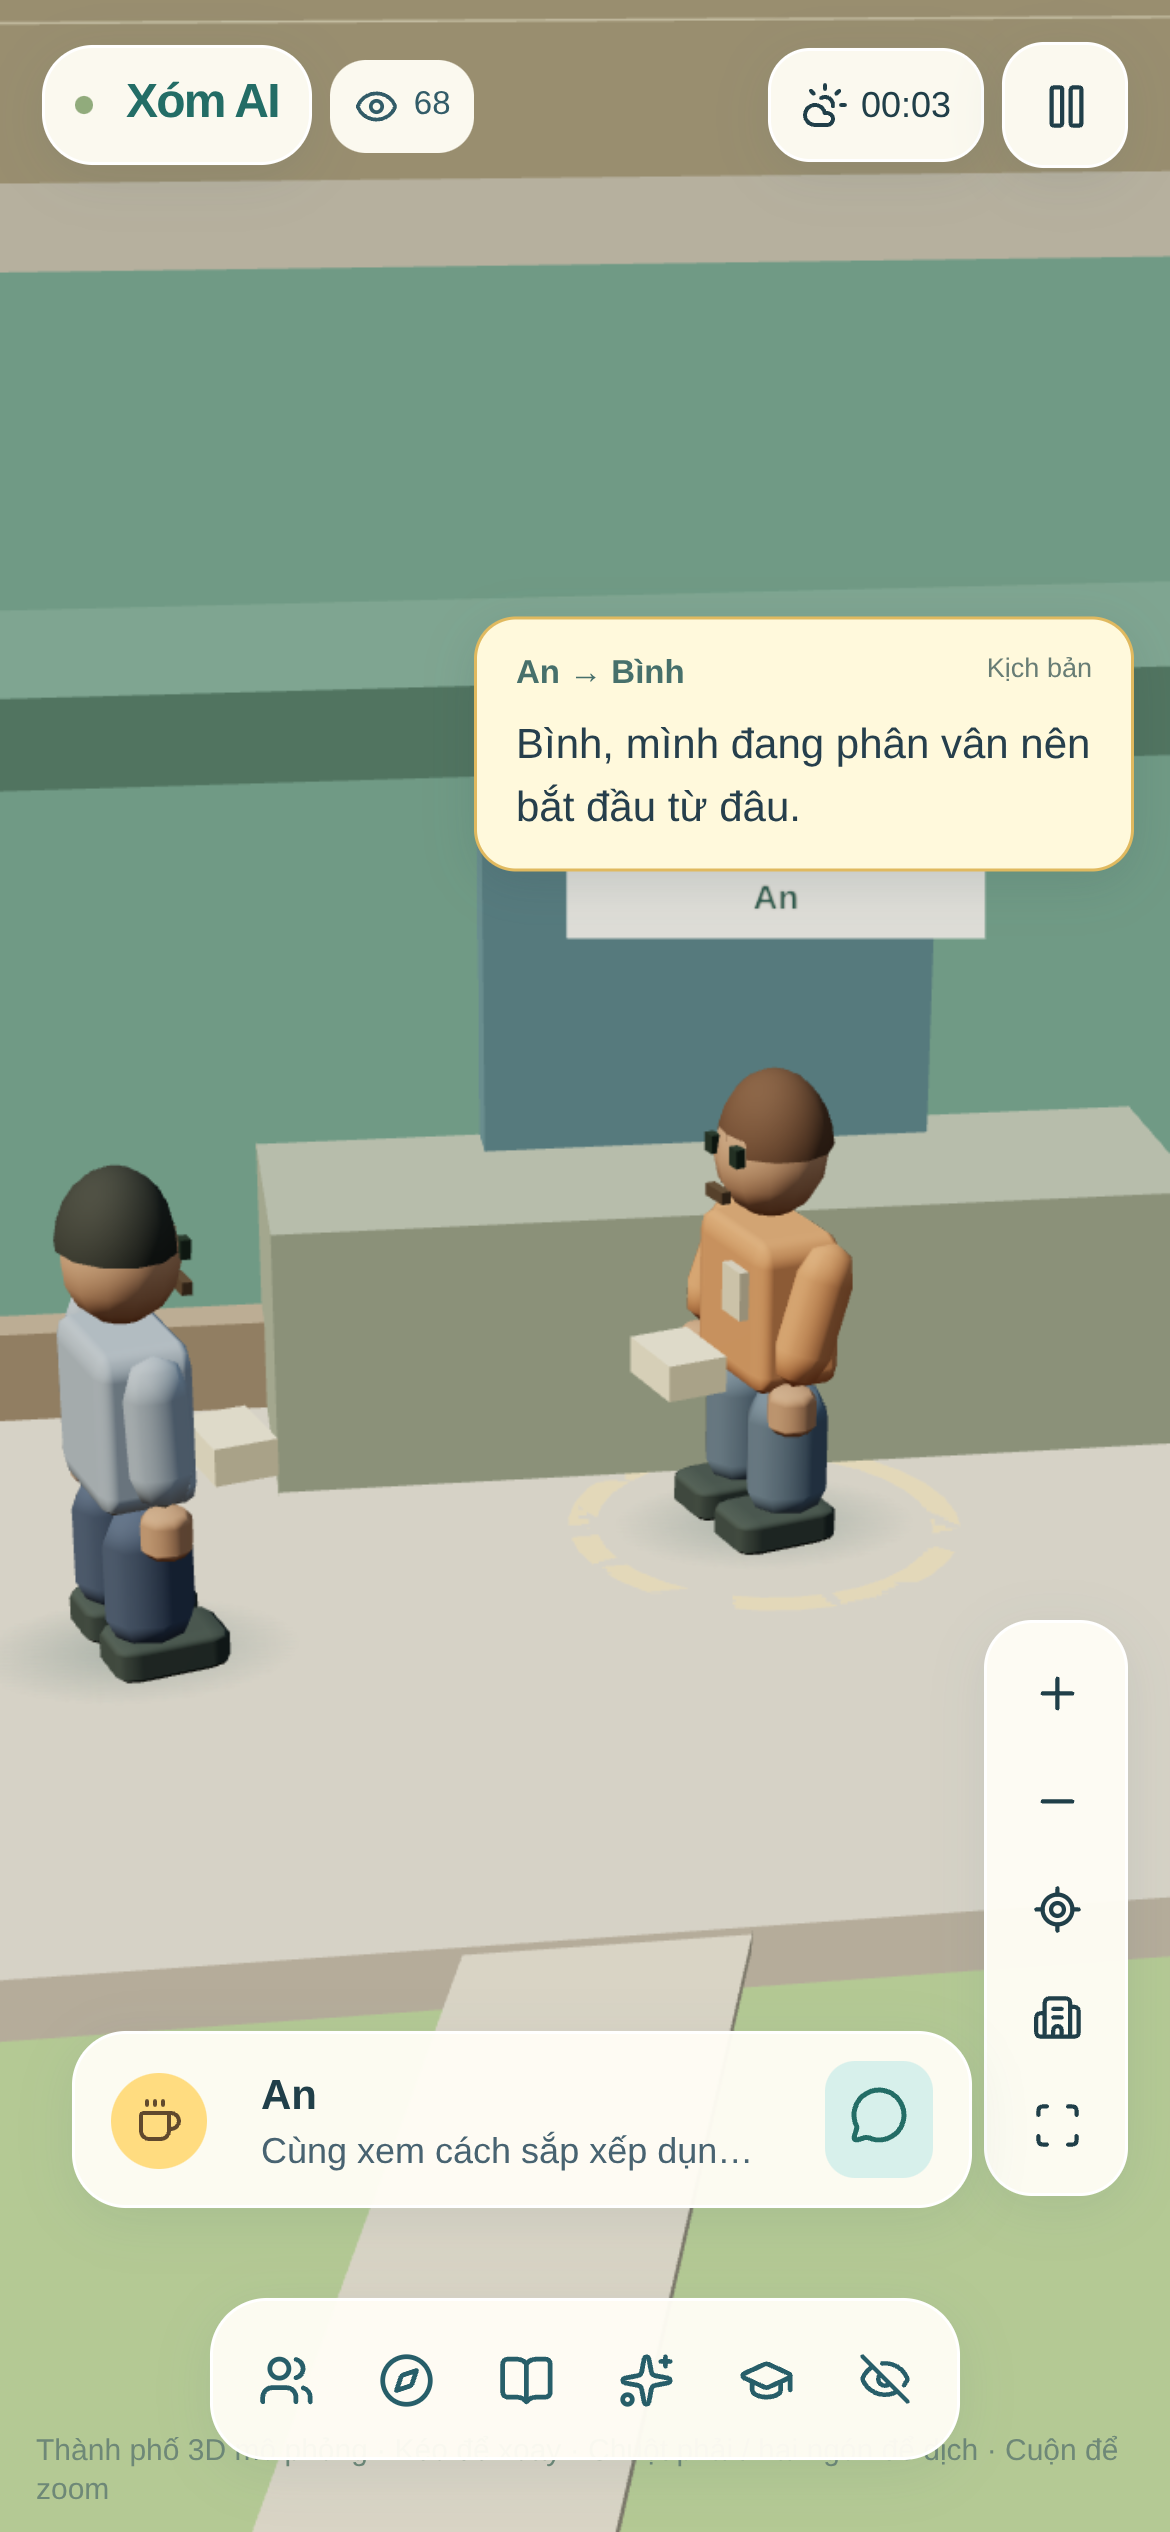
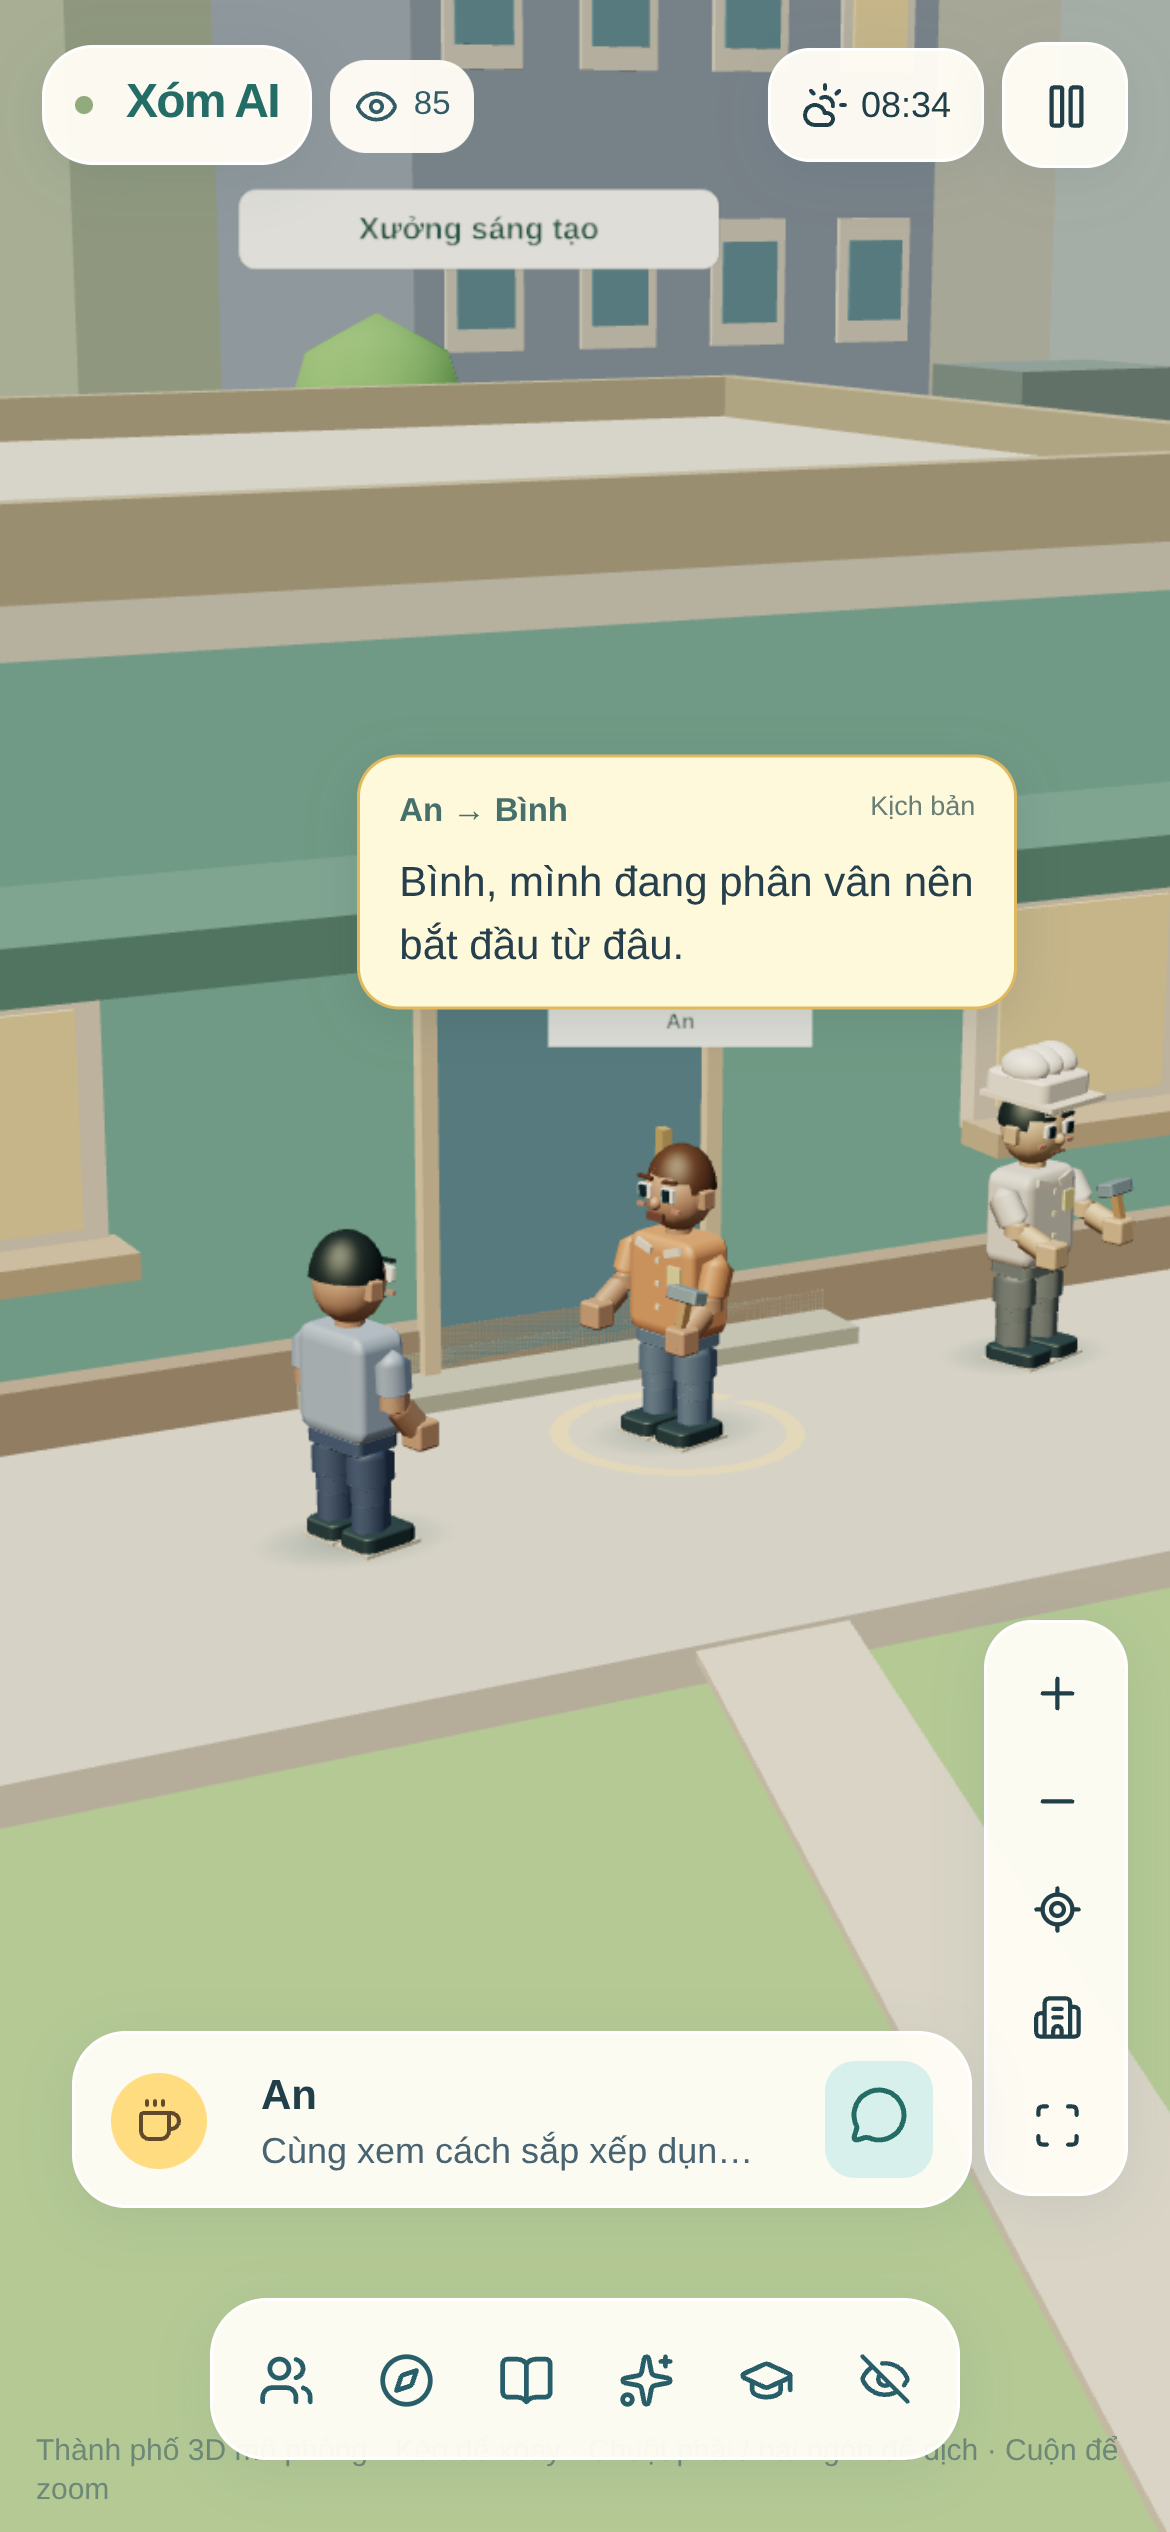
Record final character, streetscape and animal visual validation

diff --git a/MEMORY_LONG.md b/MEMORY_LONG.md
@@ -142,3 +142,13 @@
 - Native succeeded17:06:40UTC26/10, source7a7871f8c04967521b9fff3e2cbf06ae75b8ed7e; đúngversion10/env1/1owner0external. Version/deployment/archivehash/latestreadback đầy đủ tronglatest.json/ledger26/10. Giữprivate, khôngmigration.
 - PostGETrevision67/12events/28,10,10memories cònđủ; pulse200duplicate/living-v2-2026-10-27-1 đãpersist/revision68/learningupdated0,healthready/stalefalse. Khôngfixture/testevent/DBrepair. Sourcepush kháccommitledger saudeploy.
 - Localpreview/relay đãdừng; prodkhôngphụthuộcenvlocal. Browserảnh đãgửivàghi rõpreview; chưaownerbrowserprod hoặchardwareFPS. MemorySHORT chỉgiữbacklog/blocker.
+
+
+## Chi tiết đồ họa và rig — source bản 11 (27/10)
+- Hướng giữ thành phố hoạt hình vui, màu xanh ngọc/vàng/san hô, model thủ tục nguyên gốc. Không đổi dependency/model AI/migration/schedule hay appearance đã lưu.
+- People6batch thay19partmeshes; vai/khuỷu/cổtay vàhông/gối/cổchân nối liên tục, geometrylimb36triangle, blendpose/gait theo actualdistance, headyaw cungngắn. Thêm mặt/cổáo/cúc/giày/mũchef, book/cup/wateringcan/tool nốitay; LODchi tiết240units vàselected. GroundElevation khớpmặt cỏ/pad/road/path đểchân/bóng khônghover.
+-66streetProps/7loại/833parts ở33venues, modeltrongsharedfootprint; tổng573scenery+279body=852.94cây nhiều tán/thân nối tán,3bậc cửa thấp. Ambience16tia/128hạt nước+18cloudlobes pooled/simclock, pausekhônguploadbuffer.
+- Thêm6script, tổng18scene/88line gắnsourceKịchbản; không tự tạo inventory/transaction. Mèo/chó/chim dựngriêng5batch, 3policies cũ; sẻ3con làflockvisual. Rawanimalprojections dùngcompanions direct trongWalkDirector, vịtrí nhường người/xe/cùng staticnav; modelnằm trongdisc4,8. Chim lên/xuống vàcánh cóeasing, đuôi/chân/cánh đóngbăng khi pause.
+- Full24suite/check/lint/build đạt; visualtest72nearactors/4230instances/600poseframes/1800mixedhumananimalframes/actualfootheight/matrixfinite/footprintmodelbounds/pause/3policies. Traffic22740states với852obstacles0collision;1089routes, coldA*p957,6ms/max26,246ms trongenv (khôngSLA).
+- Browsercuối desktop/mobile6lượt/polling/controls; motion29frames9s/28moving/0stale/0static&animalcollision/maxstep2,409units,136920triangles/35drawcalls/21geometries.4activitydetailread/garden/eat/market đạt, ảnhlocalsynthetic đãgửi. KhônghardwareGPU/FPSclaim/productionbrowser; vẫncầnsoak/indoorIK/serve-clean/inventory/physicstoànthân.
+- Backup pre11gitignored fc7b3cfe1c571a28c32680c0cda62c38433a4bf8636aa6e0e5ec835a4a394206;revision81/13events/memories32,10,11. Phát hành/readbackxemlatest.json/ledger; sourcepush khôngđồngnghĩa deploy.

diff --git a/MEMORY_SHORT.md b/MEMORY_SHORT.md
@@ -1,8 +1,8 @@
-# Bản11 — WIP nâng đồ họa, chưa phát hành
+# Bản11 — source và QA đã chốt, chưa phát hành
 
-- User yêu cầu chi tiết/nhân vật/sự kiện/chuyển động/nhiều đồ vật. Source đang làm: People6batch thay19partmeshes, khớp khuỷu/gối, mắt/mũi/tai/cổ áo/giày, props cầm đúng tay, gait theo quãng đường và transitiondamping. Thêm66streetProps/7loại cùng footprint;6socialscripts, cloud/fountain động theo simclock; cây đa tán, sửa bậc cửa quá cao.
-- LượtQAđầu:24suite/check/lint/build đạt;72nhânvật stress trong6batch,600frame joints/stop/pause/reorder và833detailparts của66props đạt. Traffic852obstacles/22740states0collision;1089venue routes đạt. Browserdesktop/mobile6lượt+controls/motion26frames9s0collision và4activitydesktop đạt; ảnhlocal đãgửi. Thấy khe gối/táncây rời nên sửa joint nối/mũcheftròn/thâncây dài; thêmgroundElevation đểchân/bóng khớppaving, giữuốn sách cân2tay. Đangbuildlại, cần finalbrowserQA saufix. QA v2 đã đạt nhưng thấy thú nuôi cũ2box chồngchân An. Đã thêm fauna5batch/catdogbird/scales .55/.65, companions direct trongWalkDirector;3policykhôngđổi. Full24suite/check/lint/build saufauna đạt, mixed1800frame+pause+goal test đạt; cần finalbrowser saufauna rồi chốt docs/sourcepush/build/package/native deploy/readback. Chưa được gọi prod11. Nativeconfirmedprod10/1owner0external; Sites source fetched fastforward.
-- Backup pre11gitignored pre-v11-20261027-visual.json SHA256fc7b3cfe1c571a28c32680c0cda62c38433a4bf8636aa6e0e5ec835a4a394206;revision81/13events/memories32,10,11. Khôngmigration/paidAPI/reset.
+- Người dùng yêu cầu nâng đồ họa/nhân vật/sự kiện/chuyển động/nhiều đồ vật. XemVISUAL_DETAIL_REVIEW/MEMORY_LONG.24suite/check/lint/build + finalbrowserdesktop/mobile6lượt/controls/motion29frames9s0collision +4activitydetail đạt. Ảnhlocal đãgửi, khôngproduction. Sourceđãcheckpoint70a1044; sẽcommitảnh/doc cuối trước releasebuild.
+- Cần source sạch→releasebuild/package/pushSites/save_version_and_deploy_private, nativeversion/readback. Sau đó cập nhậtlatest.json/newledger27/10/README/MEMORY_SHORT +Gitpush. Prod vẫn10source7a7871f,1owner0external; khôngnhầm sourcepush vớideploy.
+- Pre11backup pre-v11-20261027-visual.json gitignored SHA256fc7b3cfe1c571a28c32680c0cda62c38433a4bf8636aa6e0e5ec835a4a394206,revision81/13events/memories32,10,11. KhôngpaidAPI/migration/reset. Cần GETpostbackup vàsofile đểxácnhậnhistory/memorycũ giữđủ. Credentialc11 cóthểhếthạn, xinnative mới; khôngđọctokenfiles.
 
 # Việc còn lại sau production version10
 

diff --git a/ROADMAP.md b/ROADMAP.md
@@ -64,3 +64,7 @@ Nguồn đã hoàn thiện12cảnh/56lượt doagentbiênkịch, crowd24h, spaci
 
 ## Vật cản và chủ động — bản10,26/10/2026
 Đã hoàn tất source/QA small-prop/tree/person avoidance, cinematicAn/aspectportrait, nhu cầu/kinh nghiệm/chống lặp/cohort công bằng và agenda độc lập. Bằng chứng SPACE_CAMERA_AUTONOMY; trạng thái production riêng ở releaseledger. Còn physicalGPU/soak, indoor/elevator/animal collision, đồng bộ playback và backend completion theo occupancy.
+
+
+## Chi tiết đồ họa — bản 11, 27/10/2026
+Đã chốt source và localQA cho rig có khớp, props gắn tay,66cụm đồ vật,6cảnh mới, cây/mây/nước và model mèo/chó/chim phối hợp groundnav. XemVISUAL_DETAIL_REVIEW vàreleaseledger. Còn hardwareGPU/soak, IK nội thất/thang máy/serve-clean/inventory và mô hìnhAI chất lượng hơn.
